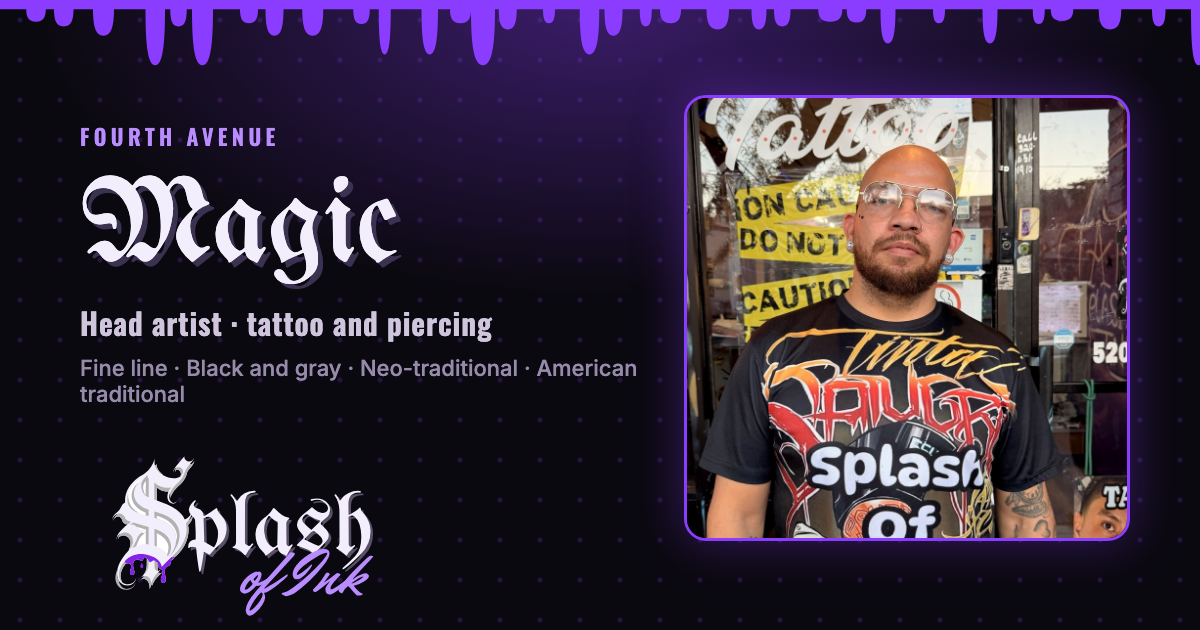
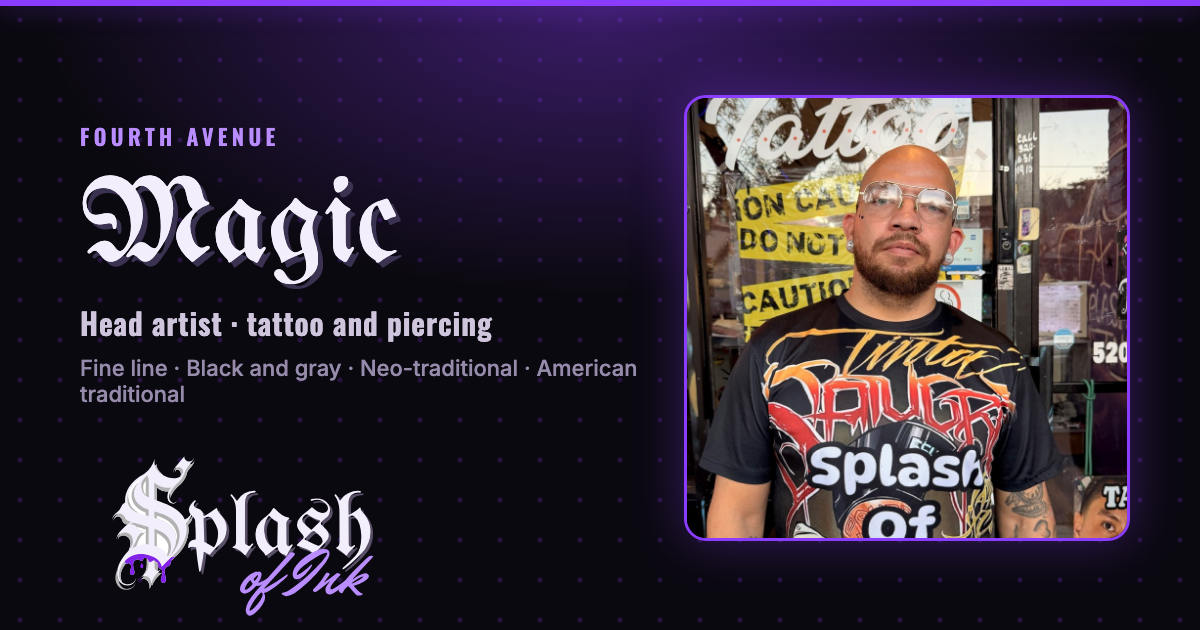
Menu: a thin purple line in place of the paint drip (share images match)
Claude-Session: https://claude.ai/code/session_011cbYtE6oghB4j8HusPhw6A

Changed region(s): [[0.0, 0.0, 1.0, 0.1206]]

diff --git a/og/angel-perez.html b/og/angel-perez.html
@@ -2,7 +2,7 @@
 <link href="https://fonts.googleapis.com/css2?family=Inter:wght@500;600&family=Oswald:wght@600&family=UnifrakturMaguntia&display=swap" rel="stylesheet">
 <style>html,body{margin:0;width:1200px;height:630px;overflow:hidden}
 body{background:radial-gradient(800px 420px at 50% 0%,rgba(139,61,255,.38),transparent 70%),radial-gradient(circle,rgba(139,61,255,.20) 0 2px,transparent 3px) 0 0/40px 40px,#0b0910;font-family:Inter,sans-serif;color:#cfc6de;position:relative}
-.drip{position:absolute;left:0;right:0;top:0;height:70px;background:url(../assets/brand/drip.svg) top/100% 100% no-repeat}
+.drip{position:absolute;left:0;right:0;top:0;height:6px;background:#8b3dff;box-shadow:0 2px 22px rgba(139,61,255,.5)}
 .eye{font:600 22px Oswald,sans-serif;letter-spacing:.2em;text-transform:uppercase;color:#b98cff}
 .foot{position:absolute;left:0;right:0;bottom:30px;text-align:center;font:500 22px Inter;color:#968bab}
 </style><div class="drip"></div><img src="../assets/artists/angel-perez.jpg" style="position:absolute;right:70px;top:95px;width:440px;height:440px;object-fit:cover;border-radius:22px;border:3px solid #8b3dff;box-shadow:0 0 50px rgba(139,61,255,.35)">

diff --git a/og/master-d.html b/og/master-d.html
@@ -2,7 +2,7 @@
 <link href="https://fonts.googleapis.com/css2?family=Inter:wght@500;600&family=Oswald:wght@600&family=UnifrakturMaguntia&display=swap" rel="stylesheet">
 <style>html,body{margin:0;width:1200px;height:630px;overflow:hidden}
 body{background:radial-gradient(800px 420px at 50% 0%,rgba(139,61,255,.38),transparent 70%),radial-gradient(circle,rgba(139,61,255,.20) 0 2px,transparent 3px) 0 0/40px 40px,#0b0910;font-family:Inter,sans-serif;color:#cfc6de;position:relative}
-.drip{position:absolute;left:0;right:0;top:0;height:70px;background:url(../assets/brand/drip.svg) top/100% 100% no-repeat}
+.drip{position:absolute;left:0;right:0;top:0;height:6px;background:#8b3dff;box-shadow:0 2px 22px rgba(139,61,255,.5)}
 .eye{font:600 22px Oswald,sans-serif;letter-spacing:.2em;text-transform:uppercase;color:#b98cff}
 .foot{position:absolute;left:0;right:0;bottom:30px;text-align:center;font:500 22px Inter;color:#968bab}
 </style><div class="drip"></div><img src="../assets/artists/master-d.jpg" style="position:absolute;right:70px;top:95px;width:440px;height:440px;object-fit:cover;border-radius:22px;border:3px solid #8b3dff;box-shadow:0 0 50px rgba(139,61,255,.35)">

diff --git a/og/annie.html b/og/annie.html
@@ -2,7 +2,7 @@
 <link href="https://fonts.googleapis.com/css2?family=Inter:wght@500;600&family=Oswald:wght@600&family=UnifrakturMaguntia&display=swap" rel="stylesheet">
 <style>html,body{margin:0;width:1200px;height:630px;overflow:hidden}
 body{background:radial-gradient(800px 420px at 50% 0%,rgba(139,61,255,.38),transparent 70%),radial-gradient(circle,rgba(139,61,255,.20) 0 2px,transparent 3px) 0 0/40px 40px,#0b0910;font-family:Inter,sans-serif;color:#cfc6de;position:relative}
-.drip{position:absolute;left:0;right:0;top:0;height:70px;background:url(../assets/brand/drip.svg) top/100% 100% no-repeat}
+.drip{position:absolute;left:0;right:0;top:0;height:6px;background:#8b3dff;box-shadow:0 2px 22px rgba(139,61,255,.5)}
 .eye{font:600 22px Oswald,sans-serif;letter-spacing:.2em;text-transform:uppercase;color:#b98cff}
 .foot{position:absolute;left:0;right:0;bottom:30px;text-align:center;font:500 22px Inter;color:#968bab}
 </style><div class="drip"></div><img src="../assets/artists/annie.jpg" style="position:absolute;right:70px;top:95px;width:440px;height:440px;object-fit:cover;border-radius:22px;border:3px solid #8b3dff;box-shadow:0 0 50px rgba(139,61,255,.35)">

diff --git a/og/magic.html b/og/magic.html
@@ -2,7 +2,7 @@
 <link href="https://fonts.googleapis.com/css2?family=Inter:wght@500;600&family=Oswald:wght@600&family=UnifrakturMaguntia&display=swap" rel="stylesheet">
 <style>html,body{margin:0;width:1200px;height:630px;overflow:hidden}
 body{background:radial-gradient(800px 420px at 50% 0%,rgba(139,61,255,.38),transparent 70%),radial-gradient(circle,rgba(139,61,255,.20) 0 2px,transparent 3px) 0 0/40px 40px,#0b0910;font-family:Inter,sans-serif;color:#cfc6de;position:relative}
-.drip{position:absolute;left:0;right:0;top:0;height:70px;background:url(../assets/brand/drip.svg) top/100% 100% no-repeat}
+.drip{position:absolute;left:0;right:0;top:0;height:6px;background:#8b3dff;box-shadow:0 2px 22px rgba(139,61,255,.5)}
 .eye{font:600 22px Oswald,sans-serif;letter-spacing:.2em;text-transform:uppercase;color:#b98cff}
 .foot{position:absolute;left:0;right:0;bottom:30px;text-align:center;font:500 22px Inter;color:#968bab}
 </style><div class="drip"></div><img src="../assets/artists/magic.jpg" style="position:absolute;right:70px;top:95px;width:440px;height:440px;object-fit:cover;border-radius:22px;border:3px solid #8b3dff;box-shadow:0 0 50px rgba(139,61,255,.35)">

diff --git a/visit.html b/visit.html
@@ -6,7 +6,6 @@
 <div class="draft">DRAFT for Splash of Ink · samples, links and hours are placeholders · forms send nothing</div>
 <header><div class="wrap"><a class="brand" href="index.html"><img src="assets/brand/lockup-dark.svg?v=22417cc6" alt="Splash of Ink" height="46"></a>
 <nav><a href="index.html">Home</a><a href="artists.html">Artists</a><a href="prices.html">Prices</a><a href="apprentice.html">Apprentices</a><a href="visit.html" class=on>Visit</a></nav></div></header>
-<div class="drip" aria-hidden="true"></div>
 
 <section class="hero" style="padding:60px 0 24px"><div class="wrap"><div class="eyebrow">Visit</div><h1 style="font-size:clamp(46px,8vw,80px)">Come say hi</h1>
 <p class="lead">There’s always someone close enough to open the door. Book ahead to get the artist you want.</p><div class="callbar"><a class="call" href="tel:+15206511910"><span class="cl">Main line · Master D</span><span class="cn">(520) 651-1910</span></a><a class="call alt" href="tel:+15203923594"><span class="cl">Second line · Magic</span><span class="cn">(520) 392-3594</span></a></div></div></section>

diff --git a/og/site.html b/og/site.html
@@ -2,7 +2,7 @@
 <link href="https://fonts.googleapis.com/css2?family=Inter:wght@500;600&family=Oswald:wght@600&family=UnifrakturMaguntia&display=swap" rel="stylesheet">
 <style>html,body{margin:0;width:1200px;height:630px;overflow:hidden}
 body{background:radial-gradient(800px 420px at 50% 0%,rgba(139,61,255,.38),transparent 70%),radial-gradient(circle,rgba(139,61,255,.20) 0 2px,transparent 3px) 0 0/40px 40px,#0b0910;font-family:Inter,sans-serif;color:#cfc6de;position:relative}
-.drip{position:absolute;left:0;right:0;top:0;height:70px;background:url(../assets/brand/drip.svg) top/100% 100% no-repeat}
+.drip{position:absolute;left:0;right:0;top:0;height:6px;background:#8b3dff;box-shadow:0 2px 22px rgba(139,61,255,.5)}
 .eye{font:600 22px Oswald,sans-serif;letter-spacing:.2em;text-transform:uppercase;color:#b98cff}
 .foot{position:absolute;left:0;right:0;bottom:30px;text-align:center;font:500 22px Inter;color:#968bab}
 </style><div class="drip"></div><div style="position:absolute;inset:110px 0 0 0;text-align:center">

diff --git a/apprentice.html b/apprentice.html
@@ -6,7 +6,6 @@
 <div class="draft">DRAFT for Splash of Ink · samples, links and hours are placeholders · forms send nothing</div>
 <header><div class="wrap"><a class="brand" href="index.html"><img src="assets/brand/lockup-dark.svg?v=22417cc6" alt="Splash of Ink" height="46"></a>
 <nav><a href="index.html">Home</a><a href="artists.html">Artists</a><a href="prices.html">Prices</a><a href="apprentice.html" class=on>Apprentices</a><a href="visit.html">Visit</a></nav></div></header>
-<div class="drip" aria-hidden="true"></div>
 
 <section class="hero" style="padding:60px 0 24px"><div class="wrap"><div class="eyebrow">Apprentices · always open</div><h1 style="font-size:clamp(46px,8vw,80px)">Learn with us</h1>
 <p class="lead">We’re always looking for people who love to draw and want to learn tattooing or piercing. Applications stay open all year.</p></div></section>

diff --git a/prices.html b/prices.html
@@ -6,7 +6,6 @@
 <div class="draft">DRAFT for Splash of Ink · samples, links and hours are placeholders · forms send nothing</div>
 <header><div class="wrap"><a class="brand" href="index.html"><img src="assets/brand/lockup-dark.svg?v=22417cc6" alt="Splash of Ink" height="46"></a>
 <nav><a href="index.html">Home</a><a href="artists.html">Artists</a><a href="prices.html" class=on>Prices</a><a href="apprentice.html">Apprentices</a><a href="visit.html">Visit</a></nav></div></header>
-<div class="drip" aria-hidden="true"></div>
 
 <section class="hero" style="padding:60px 0 24px"><div class="wrap"><div class="eyebrow">Request prices</div><h1 style="font-size:clamp(46px,8vw,80px)">Ask your artist</h1>
 <p class="lead">Each artist sets their own prices, and price depends on size and placement. Pick the artist you want and they’ll send you a range.</p></div></section>

diff --git a/style.css b/style.css
@@ -8,7 +8,7 @@ h1,h3{font-family:Oswald,sans-serif;}
 h1,h2,h3{color:var(--fog);line-height:1.15;margin:0 0 .5em;letter-spacing:.01em;font-weight:600}
 .wrap{max-width:1120px;margin:0 auto;padding:0 20px}
 .draft{background:var(--purple);color:#fff;text-align:center;font:600 13px/1.4 Inter,sans-serif;padding:7px 16px}
-header{background:rgba(11,9,16,.92);position:sticky;top:0;z-index:5;backdrop-filter:blur(6px)}
+header{background:rgba(11,9,16,.92);border-bottom:3px solid var(--purple);box-shadow:0 2px 18px rgba(139,61,255,.35);position:sticky;top:0;z-index:5;backdrop-filter:blur(6px)}
 header .wrap{display:flex;align-items:center;justify-content:space-between;gap:16px;padding:12px 20px;flex-wrap:wrap}
 .brand{font:400 34px/1 "Pirata One",serif;color:var(--fog);text-decoration:none;letter-spacing:.02em}
 .brand img{height:46px;width:auto;display:block}

diff --git a/artists.html b/artists.html
@@ -6,7 +6,6 @@
 <div class="draft">DRAFT for Splash of Ink · samples, links and hours are placeholders · forms send nothing</div>
 <header><div class="wrap"><a class="brand" href="index.html"><img src="assets/brand/lockup-dark.svg?v=22417cc6" alt="Splash of Ink" height="46"></a>
 <nav><a href="index.html">Home</a><a href="artists.html" class=on>Artists</a><a href="prices.html">Prices</a><a href="apprentice.html">Apprentices</a><a href="visit.html">Visit</a></nav></div></header>
-<div class="drip" aria-hidden="true"></div>
 
 <section class="hero" style="padding:60px 0 30px"><div class="wrap"><div class="eyebrow">Artists</div><h1 style="font-size:clamp(46px,8vw,80px)">Pick your artist</h1>
 <p class="lead">Each artist works for themselves under the Splash of Ink roof, with their own style and their own prices.</p></div></section>

diff --git a/artist-angel-perez.html b/artist-angel-perez.html
@@ -6,7 +6,6 @@
 <div class="draft">DRAFT for Splash of Ink · samples, links and hours are placeholders · forms send nothing</div>
 <header><div class="wrap"><a class="brand" href="index.html"><img src="assets/brand/lockup-dark.svg?v=22417cc6" alt="Splash of Ink" height="46"></a>
 <nav><a href="index.html">Home</a><a href="artists.html" class=on>Artists</a><a href="prices.html">Prices</a><a href="apprentice.html">Apprentices</a><a href="visit.html">Visit</a></nav></div></header>
-<div class="drip" aria-hidden="true"></div>
 
 <section><div class="wrap prof">
   <div><img class="portrait" src="assets/artists/angel-perez.jpg" alt="Angel Perez" width="900" height="900" loading="lazy"></div>

diff --git a/artist-master-d.html b/artist-master-d.html
@@ -6,7 +6,6 @@
 <div class="draft">DRAFT for Splash of Ink · samples, links and hours are placeholders · forms send nothing</div>
 <header><div class="wrap"><a class="brand" href="index.html"><img src="assets/brand/lockup-dark.svg?v=22417cc6" alt="Splash of Ink" height="46"></a>
 <nav><a href="index.html">Home</a><a href="artists.html" class=on>Artists</a><a href="prices.html">Prices</a><a href="apprentice.html">Apprentices</a><a href="visit.html">Visit</a></nav></div></header>
-<div class="drip" aria-hidden="true"></div>
 
 <section><div class="wrap prof">
   <div><img class="portrait" src="assets/artists/master-d.jpg" alt="Master D" width="900" height="900" loading="lazy"></div>
